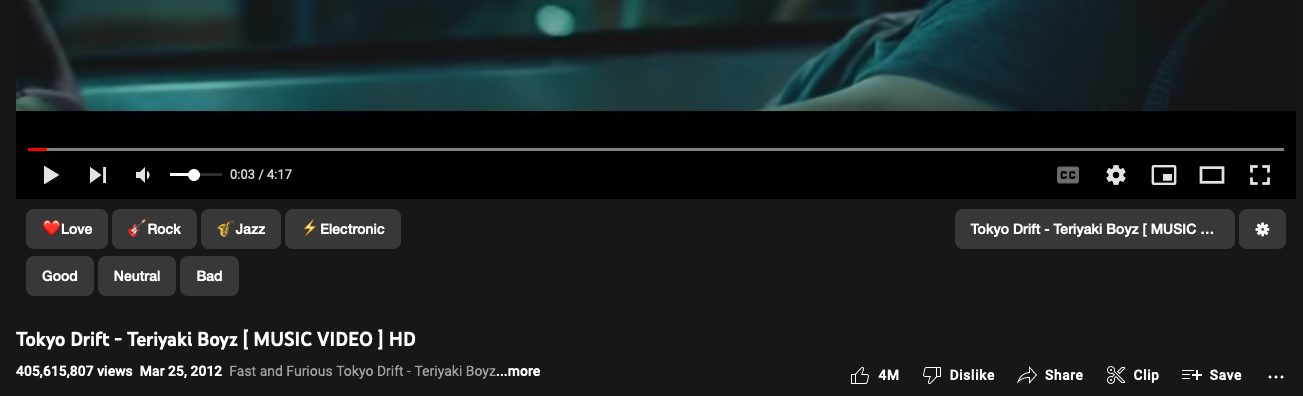
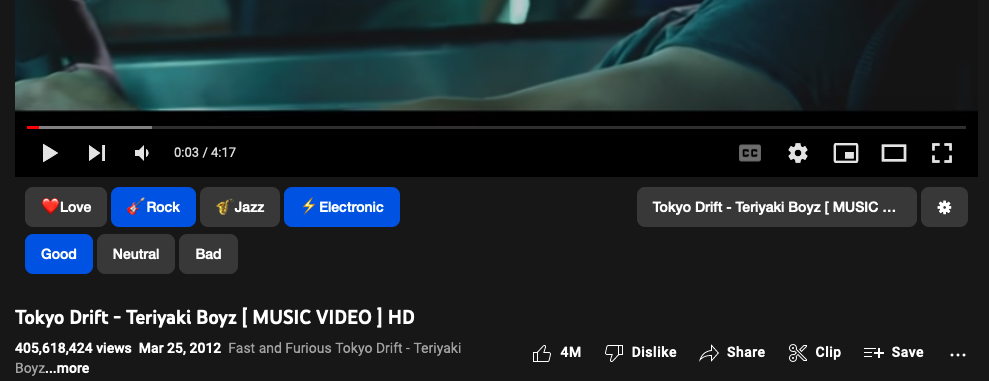
Update text, image, readme

diff --git a/options.html b/options.html
@@ -23,11 +23,12 @@
     </p>
 
     <p>
-      When one of these buttons are clicked, the
-      <code class="btn-active">#tag</code>
-      will be toggled on/off in your browser bookmark. (adds and removes the tag
-      from the browser bookmark title)
+      When you click on a <code class="btn-active">#tag</code>
+      button, the #tag will be appended to the title of your browser bookmark
+      and the button will light up.
     </p>
+
+    <p>The tag is toggled on/off with subsequent clicks.</p>
 
     <p>To change the tags available, edit the settings below.</p>
 

diff --git a/README.md b/README.md
@@ -9,12 +9,11 @@ A webextension which adds buttons below the YouTube video player.
 If the video exists in your browser bookmarks, then buttons will be
 displayed below the video player. (as shown above)
 
-When you click on a tag button, the #tag will be appended to the title of your browser bookmark.
+When you click on a <code class="btn-active">#tag</code>
+button, the #tag will be appended to the title of your browser bookmark
+and the button will light up.
 
-When one of these buttons are clicked, the
-<code class="btn-active">#tag</code>
-will be toggled on/off in your browser bookmark. (adds and removes the tag
-from the browser bookmark title)
+The tag is toggled on/off with subsequent clicks.
 
 You can configure the tags available in the options page.
 
@@ -28,7 +27,6 @@ Firefox has a native bookmark tagging feature, however it is not supported on an
 Whatsmore, webextension bookmarks API does not expose tags.
 (see [bookmarks.BookmarkTreeNode](https://developer.mozilla.org/en-US/docs/Mozilla/Add-ons/WebExtensions/API/bookmarks/BookmarkTreeNode))
 So, instead this extension opted towards appending #tags to the bookmark title.
-
 
 Under consideration:
 * Use CSV notation instead of JSON notation to define tags
